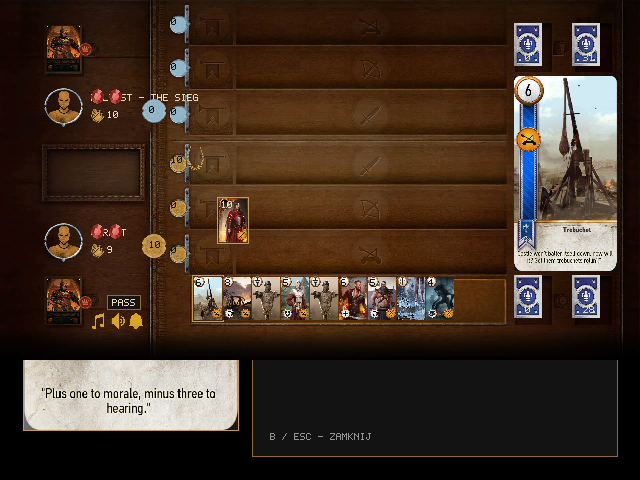
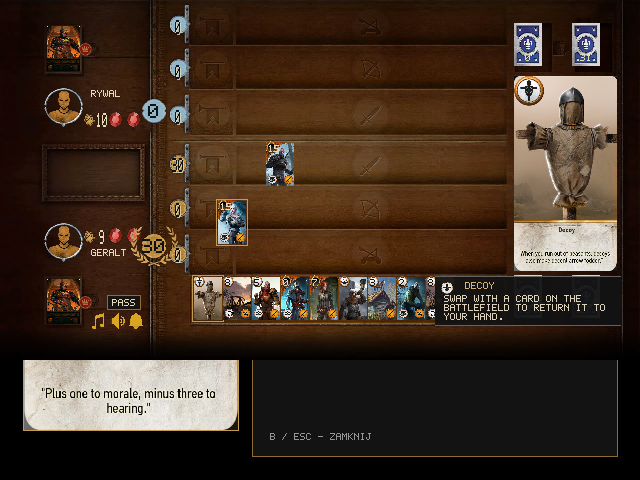
Fix match score and player stat alignment

diff --git a/src/main.cpp b/src/main.cpp
@@ -89,6 +89,28 @@ void narrowText(SDL_Renderer* r,int x,int y,const std::string& value,Color c,int
 }
 int textWidth(const std::string& s,int scale=1) { return static_cast<int>(ascii(s).size())*6*scale; }
 std::string shortName(std::string s,int n) { if(static_cast<int>(ascii(s).size())>n) s=ascii(s).substr(0,n); return ascii(s); }
+void tallTextInBox(SDL_Renderer* r,int x,int y,int width,int height,const std::string& value,Color c,bool shadow=false) {
+  const std::string s=ascii(value);
+  if(s.empty())return;
+  const int advance=std::max(1,std::min(6,width/static_cast<int>(s.size())));
+  const int textWidthPx=advance*static_cast<int>(s.size());
+  const int startX=x+(width-textWidthPx)/2,startY=y+std::max(0,(height-14)/2);
+  const auto draw=[&](int offsetX,int offsetY,Color c) {
+    color(r,c);int cx=startX+offsetX;
+    for(char ch:s) {
+      const auto it=font().find(ch);const Glyph g=it==font().end()?font().at('?'):it->second;
+      for(int row=0;row<7;++row)for(int col=0;col<5;++col)if(g[row]&(1u<<(4-col))) {
+        SDL_Rect p{cx+(col*advance)/5,startY+row*2+offsetY,1,2};SDL_RenderFillRect(r,&p);
+      }
+      cx+=advance;
+    }
+  };
+  if(shadow&&height>14)draw(1,1,Color{229,218,186,210});
+  draw(0,0,c);
+}
+void rowScoreText(SDL_Renderer* r,int x,int y,const std::string& value) {
+  tallTextInBox(r,x,y,17,44,value,ink,true);
+}
 
 enum class Screen { Title, DeckSelect, DeckBuilder, Match };
 enum class Language { Polish, English };
@@ -157,6 +179,7 @@ std::string tr(const App& a,const std::string& key) {
   if(key=="start")return pl?"ENTER - ROZPOCZNIJ":"ENTER - START";
   if(key=="choose")return pl?"WYBIERZ TALIE":"CHOOSE A DECK";
   if(key=="opponent")return pl?"PRZECIWNIK":"OPPONENT";
+  if(key=="opponent_short")return pl?"RYWAL":"OPPONENT";
   if(key=="ai")return pl?"PRZECIWNIK AI":"AI OPPONENT";
   if(key=="language")return pl?"JEZYK":"LANGUAGE";
   if(key=="instructions")return pl?"LEWO/PRAWO - TALIA":"LEFT/RIGHT - DECK";
@@ -509,10 +532,9 @@ void drawRow(SDL_Renderer* r,const App& a,int owner,int row,int y) {
   const bool chosen=player&&a.game.phase==gwent::Phase::PlayerTurn&&a.rowIndex==row;
   if(chosen)box(r,left,y,width,rowHeight,Color{255,255,0,20});
   const int total=rowScore(a.game,owner,row);
-  // Match the original panel-mid row proportions: 5.1% score, 14.25% special,
-  // then cards beginning at 20% of the panel width.
-  text(r,left+1,y+13,std::to_string(total),ink,1);
-  if(!a.game.players[owner].board[row].empty())drawImage(r,a,"img/icons/icon_high_score.png",left+17,y+3,17,25);
+  // The source row score occupies a centered 5.1% column; high-score laurels
+  // belong to the overall score medallion, not to every populated row.
+  rowScoreText(r,left,y,std::to_string(total));
   if(a.game.horn[owner][row])drawImage(r,a,"img/icons/power_horn.png",left+20,y+8,27,28);
   const auto& cards=a.game.players[owner].board[row];
   const int start=left+67,shown=std::min(9,static_cast<int>(cards.size()));
@@ -675,12 +697,22 @@ void drawMatch(SDL_Renderer* r,const App& a) {
     const int statsY=owner==1?87:222;
     drawImage(r,a,"img/icons/profile.png",48,statsY+4,32,32);
     drawImage(r,a,"img/icons/icon_player_border.png",44,statsY+1,39,39);
-    text(r,91,statsY+7,owner==0?"GERALT":shortName(player.leader.name,18),paper,1);
-    drawImage(r,a,"img/icons/icon_card_count.png",91,statsY+22,14,14);
-    text(r,107,statsY+24,std::to_string(player.hand.size()),paper,1);
-    drawImage(r,a,"img/icons/score_total_"+std::string(owner==0?"me":"op")+".png",142,statsY+12,24,24);
-    text(r,149,statsY+19,std::to_string(player.score),ink,1);
-    for(int gem=0;gem<2;++gem)drawImage(r,a,"img/icons/icon_gem_"+std::string(gem<2-player.roundLosses?"on":"off")+".png",91+gem*18,statsY+2,13,15);
+    if(owner==0)text(r,91,statsY+27,"GERALT",paper,1);
+    else text(r,91,statsY+3,tr(a,"opponent_short"),paper,1);
+    const int gemY=statsY+(owner==1?25:6);
+    for(int gem=0;gem<2;++gem)
+      drawImage(r,a,"img/icons/icon_gem_"+std::string(gem<2-player.roundLosses?"on":"off")+".png",109+gem*18,gemY,13,15);
+    const int handY=statsY+(owner==1?26:8);
+    // Keep the hand counter in its own narrow column, clear of the two gems.
+    drawImage(r,a,"img/icons/icon_card_count.png",84,handY+1,11,12);
+    tallTextInBox(r,96,handY,12,14,std::to_string(player.hand.size()),paper);
+    const int scoreX=142,scoreY=statsY+12,scoreSize=24;
+    const bool leading=owner==0?me.score>op.score:op.score>me.score;
+    if(leading)drawImage(r,a,"img/icons/icon_high_score.png",131,statsY+4,47,41);
+    drawImage(r,a,"img/icons/score_total_"+std::string(owner==0?"me":"op")+".png",scoreX,scoreY,scoreSize,scoreSize);
+    const std::string score=std::to_string(player.score);
+    const int scale=score.size()>=3?1:2;
+    text(r,scoreX+(scoreSize-textWidth(score,scale))/2,scoreY+(scoreSize-7*scale)/2,score,ink,scale);
   };
   drawSide(op,1);drawSide(me,0);
   drawImage(r,a,"img/icons/icon_leader_active.png",79,43,13,13);
@@ -700,7 +732,8 @@ void drawMatch(SDL_Renderer* r,const App& a) {
     const int x=grave?514:572;
     if(grave&&!pile.empty())drawImage(r,a,"img/sm/"+gwent::referenceCardImage(pile.back().referenceIndex),x,y,28,43);
     else drawImage(r,a,"img/icons/deck_back_"+std::string(factionKey(a.game.players[owner].faction))+".jpg",x,y,28,43);
-    text(r,x+11,y+31,std::to_string(pile.size()),paper,1);
+    const std::string count=std::to_string(pile.size());
+    text(r,x+(28-textWidth(count))/2,y+31,count,paper,1);
   };
   drawPile(1,true,23);drawPile(1,false,23);drawPile(0,true,275);drawPile(0,false,275);
   box(r,107,295,34,15,Color{20,20,20,230});frame(r,107,295,34,15,Color{143,108,54});text(r,112,299,"PASS",paper,1);
@@ -996,6 +1029,7 @@ int main(int argc,char** argv) {
     if(argc>4) { app.cardDetailsOpen=true;drawDeckBuilder(renderer,app);SDL_RenderPresent(renderer);if(!saveFrame(argv[4])) { app.audio.shutdown();SDL_DestroyRenderer(renderer);SDL_DestroyWindow(window);SDL_Quit();return 4; }app.cardDetailsOpen=false; }
     startMatch(app);
     gwent::replaceMulliganCards(app.game,0,{}); gwent::replaceMulliganCards(app.game,1,gwent::chooseAiMulligan(app.game,1));
+    app.game.phase=gwent::Phase::PlayerTurn;app.game.currentPlayer=0;
     drawMatch(renderer,app);
     if(argc>2&&!saveFrame(argv[2])) { app.audio.shutdown();SDL_DestroyRenderer(renderer);SDL_DestroyWindow(window);SDL_Quit();return 4; }
     if(argc>5) {
